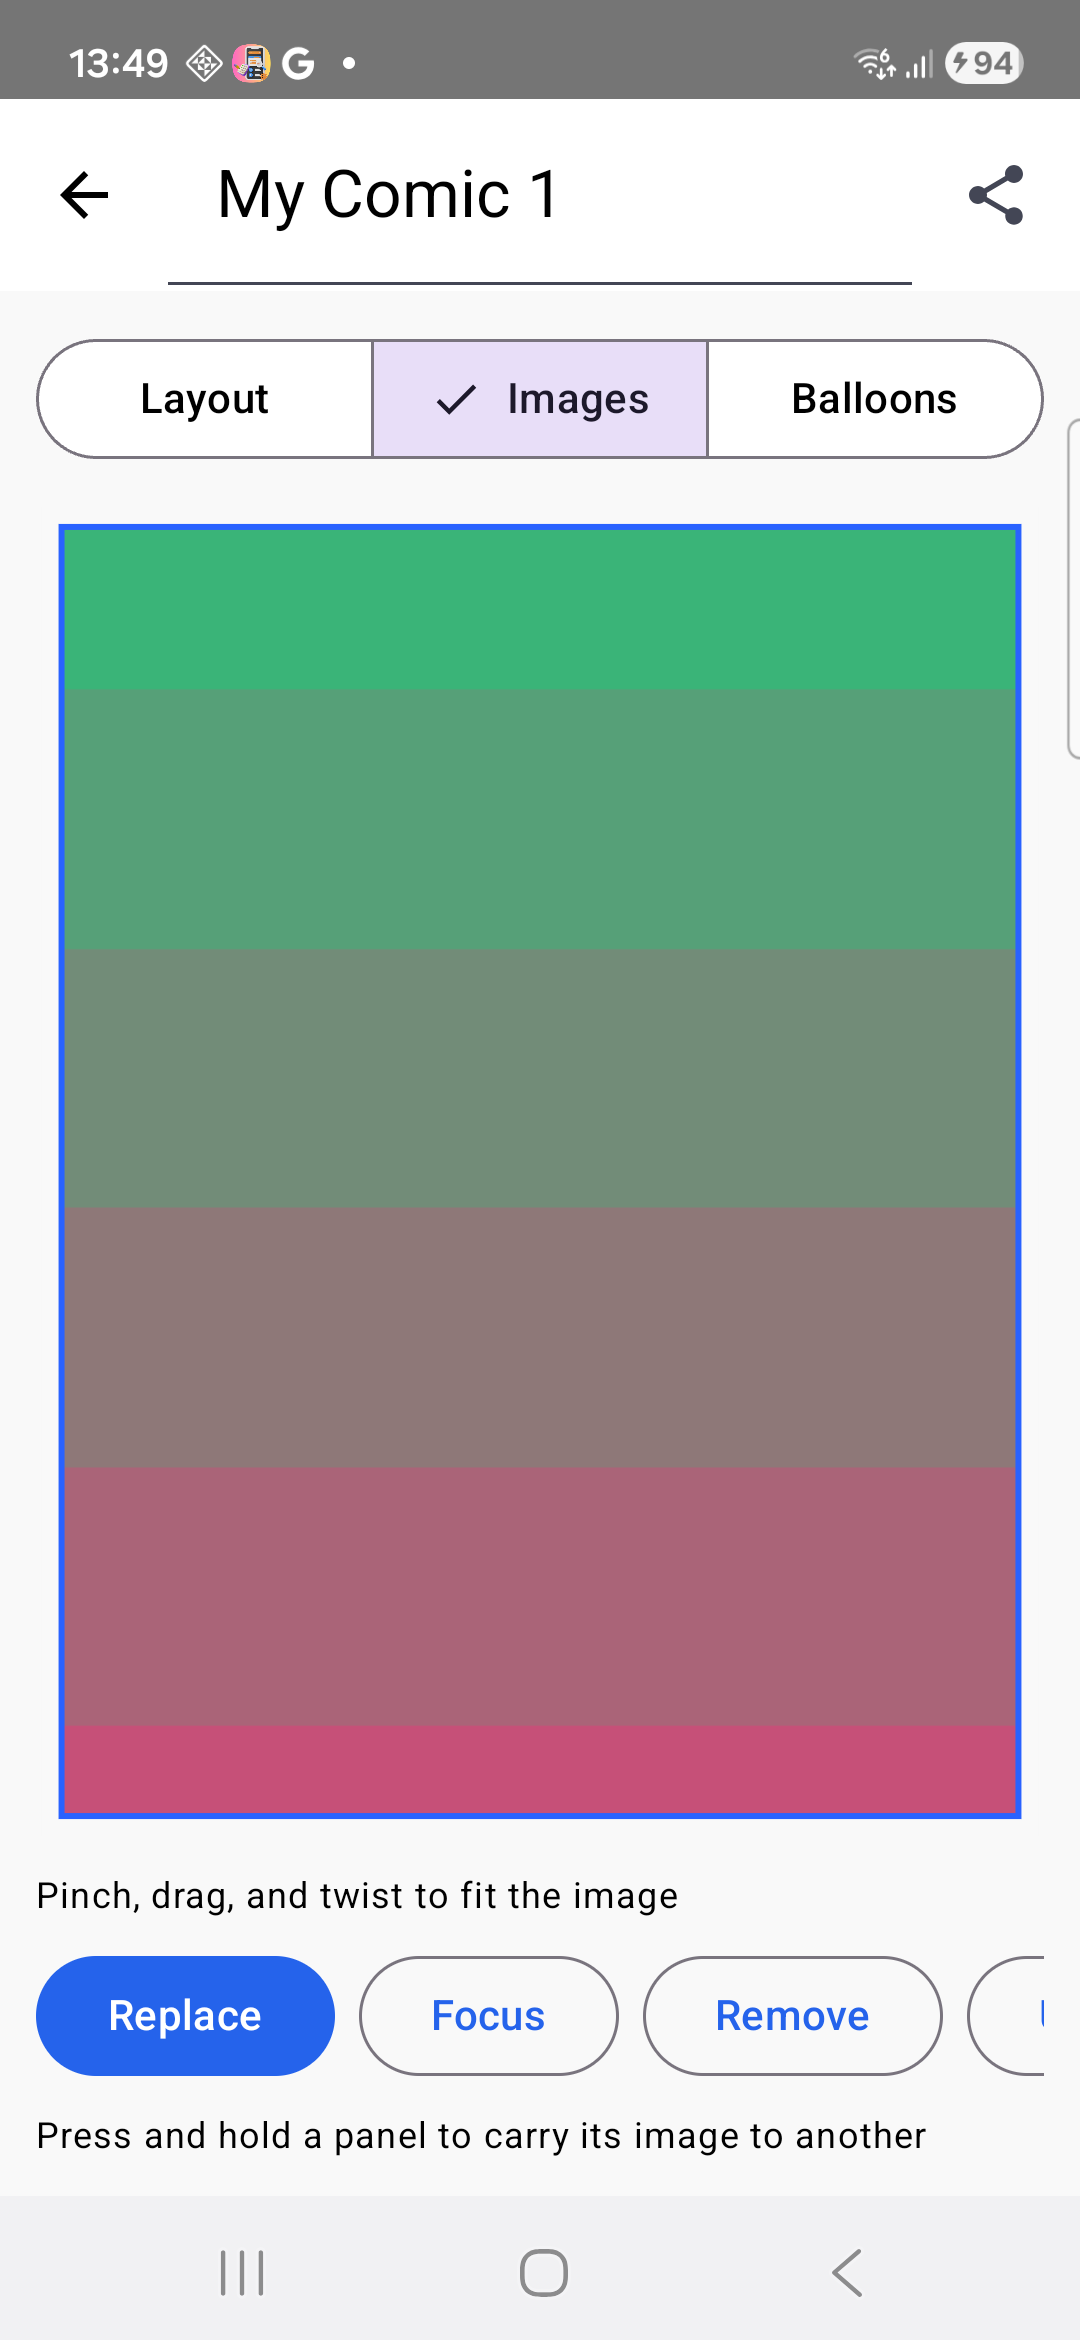
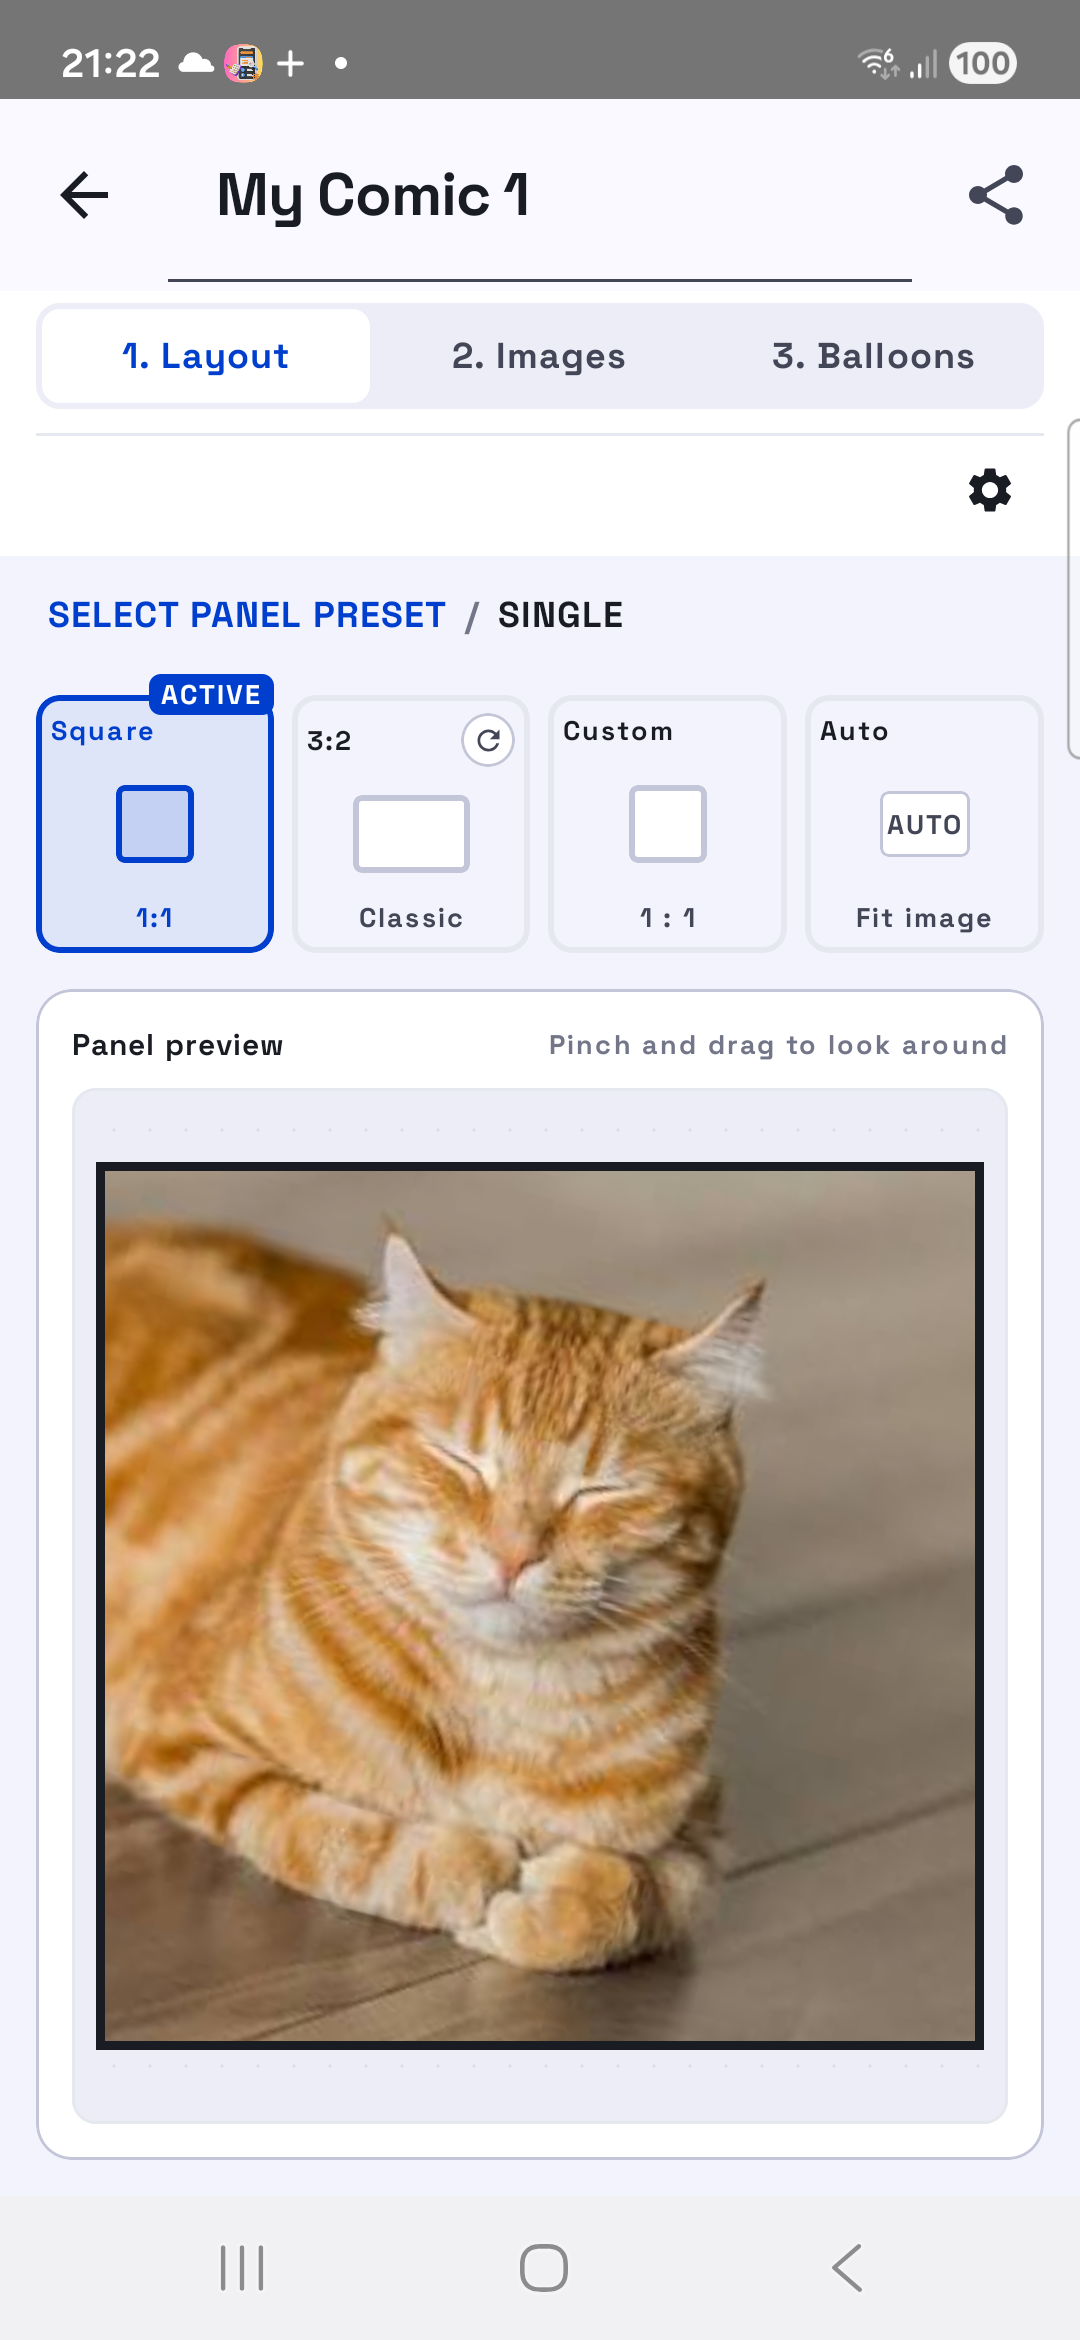
add preview panel image

diff --git a/app/src/main/java/com/ballooner/ui/comiceditor/SinglePanelShapeScreen.kt b/app/src/main/java/com/ballooner/ui/comiceditor/SinglePanelShapeScreen.kt
@@ -42,6 +42,21 @@ import com.ballooner.domain.comic.SQUARE_RATIO
 import com.ballooner.domain.comic.TALL_RATIO
 import com.ballooner.domain.comic.WIDE_RATIO
 import androidx.compose.foundation.Canvas
+import androidx.compose.foundation.gestures.detectTransformGestures
+import androidx.compose.runtime.remember
+import androidx.compose.runtime.rememberUpdatedState
+import androidx.compose.ui.draw.clipToBounds
+import androidx.compose.ui.graphics.ImageBitmap
+import androidx.compose.ui.graphics.drawscope.withTransform
+import androidx.compose.ui.input.pointer.pointerInput
+import androidx.compose.ui.unit.IntOffset
+import androidx.compose.ui.unit.IntSize
+import com.ballooner.domain.comic.PageRect
+import com.ballooner.domain.comic.PanelImage
+import com.ballooner.domain.comic.transformed
+import com.ballooner.ui.comic.PageViewport
+import com.ballooner.ui.comic.PanelImageSource
+import com.ballooner.ui.comic.imageDrawSpec
 import kotlin.math.abs
 import kotlin.math.roundToInt
 
@@ -59,6 +74,8 @@ private enum class ShapeTile { SQUARE, RATIO, CUSTOM, AUTO }
 fun SinglePanelShapeScreen(
     sizing: PageSizing,
     panelRatio: Float,
+    image: PanelImage?,
+    images: PanelImageSource,
     onChange: (PageSizing) -> Unit,
     onBack: () -> Unit,
     modifier: Modifier = Modifier,
@@ -172,8 +189,11 @@ fun SinglePanelShapeScreen(
 
         PanelPreview(
             // The panel as it will really be: a ratio the page cannot reach is held back, and
-            // the preview has to say so rather than promise the number on the slider.
-            ratio = panelRatio.takeIf { tile != ShapeTile.AUTO },
+            // the preview has to say so rather than promise the number on the slider. An auto
+            // panel has no shape to show until an image gives it one.
+            ratio = panelRatio.takeIf { tile != ShapeTile.AUTO || image != null },
+            image = image,
+            images = images,
             modifier = Modifier.weight(1f),
         )
     }
@@ -448,8 +468,14 @@ private fun FilledTrack(fraction: Float) {
 
 /** The shape itself, on a drafting ground, so the numbers above are never the only feedback. */
 @Composable
-private fun PanelPreview(ratio: Float?, modifier: Modifier = Modifier) {
+private fun PanelPreview(
+    ratio: Float?,
+    image: PanelImage?,
+    images: PanelImageSource,
+    modifier: Modifier = Modifier,
+) {
     val scheme = MaterialTheme.colorScheme
+    val bitmap = image?.let { images.bitmapFor(it.sourceUri) }
     Column(
         modifier = modifier
             .fillMaxWidth()
@@ -462,11 +488,24 @@ private fun PanelPreview(ratio: Float?, modifier: Modifier = Modifier) {
             .padding(12.dp),
         verticalArrangement = Arrangement.spacedBy(8.dp),
     ) {
-        Text(
-            text = "Panel preview",
-            style = MaterialTheme.typography.labelMedium,
-            color = scheme.onSurface,
-        )
+        Row(
+            modifier = Modifier.fillMaxWidth(),
+            horizontalArrangement = Arrangement.SpaceBetween,
+            verticalAlignment = Alignment.CenterVertically,
+        ) {
+            Text(
+                text = "Panel preview",
+                style = MaterialTheme.typography.labelMedium,
+                color = scheme.onSurface,
+            )
+            if (bitmap != null) {
+                Text(
+                    text = "Pinch and drag to look around",
+                    style = MaterialTheme.typography.labelSmall,
+                    color = scheme.outline,
+                )
+            }
+        }
         Box(
             modifier = Modifier
                 .fillMaxWidth()
@@ -493,8 +532,65 @@ private fun PanelPreview(ratio: Float?, modifier: Modifier = Modifier) {
                         .aspectRatio(ratio)
                         .background(scheme.surfaceContainerLowest)
                         .border(BorderStroke(3.dp, scheme.onSurface)),
-                )
+                ) {
+                    if (bitmap != null) {
+                        PreviewImage(ratio = ratio, placement = image, bitmap = bitmap)
+                    }
+                }
             }
+        }
+    }
+}
+
+/**
+ * The image inside the preview frame, with pinch, drag, and twist.
+ *
+ * Nothing here is written back to the comic: this is a way of looking at how an image sits in a
+ * shape while choosing that shape, and the Placement step remains the only place a panel image is
+ * actually positioned.
+ */
+@Composable
+private fun PreviewImage(ratio: Float, placement: PanelImage, bitmap: ImageBitmap) {
+    val imageAspect = bitmap.width.toFloat() / bitmap.height
+    // Starts from where the Placement step left it, then drifts freely and is thrown away.
+    var looking by remember(placement.sourceUri) { mutableStateOf(placement) }
+    val latest = rememberUpdatedState(ratio to imageAspect)
+
+    Canvas(
+        modifier = Modifier
+            .fillMaxSize()
+            .clipToBounds()
+            // Keyed on nothing: keying on what the gesture edits would tear the handler down on
+            // the first move and the drag would barely travel.
+            .pointerInput(Unit) {
+                detectTransformGestures { _, pan, zoom, rotation ->
+                    val (currentRatio, aspect) = latest.value
+                    val frame = PageRect(0f, 0f, currentRatio, 1f)
+                    val scale = size.height.toFloat()
+                    if (scale <= 0f) return@detectTransformGestures
+                    looking = looking.transformed(
+                        panel = frame,
+                        imageAspect = aspect,
+                        panX = pan.x / scale,
+                        panY = pan.y / scale,
+                        zoomBy = zoom,
+                        rotateBy = rotation,
+                    )
+                }
+            },
+    ) {
+        val spec = imageDrawSpec(
+            panel = PageRect(0f, 0f, ratio, 1f),
+            image = looking,
+            imageAspect = imageAspect,
+            viewport = PageViewport(0f, 0f, size.height),
+        )
+        withTransform({ rotate(spec.angleDegrees, spec.pivot) }) {
+            drawImage(
+                image = bitmap,
+                dstOffset = IntOffset(spec.topLeft.x.roundToInt(), spec.topLeft.y.roundToInt()),
+                dstSize = IntSize(spec.size.width.roundToInt(), spec.size.height.roundToInt()),
+            )
         }
     }
 }

diff --git a/app/src/main/java/com/ballooner/ui/comiceditor/ComicEditorScreen.kt b/app/src/main/java/com/ballooner/ui/comiceditor/ComicEditorScreen.kt
@@ -101,6 +101,8 @@ fun ComicEditorScreen(
                         sizing = state.comic.sizing,
                         panelRatio = panel?.takeIf { it.height > 0f }
                             ?.let { it.width / it.height } ?: 1f,
+                        image = state.comic.panels.firstOrNull()?.image,
+                        images = images,
                         onChange = actions::setSizing,
                         onBack = actions::closeLayoutKind,
                     )

diff --git a/.github/instructions/ui-vocabulary.instructions.md b/.github/instructions/ui-vocabulary.instructions.md
@@ -106,7 +106,9 @@ the parts owned by later steps are shown dimmed and are not interactive.
 - **Custom dimensions**: The Custom tile's two sliders, **Width (W)** and **Height (H)**, in whole
   units from 1 to 24. The ratio between them is the shape.
 - **Panel preview**: The shape drawn on a drafting ground, showing the panel as it will really be
-  rather than the number that was asked for.
+  rather than the number that was asked for. Once the panel has an image it is drawn inside the
+  frame and can be pinched, dragged, and twisted. That is **looking, not placing**: nothing there
+  is written to the comic, and the Placement step remains the only place an image is positioned.
 - **Reference panel**: The panel that gives the Page its height, which is the first panel of the
   Grid. For a Single comic that is the only panel.
 - **Panel shape**: The proportions the Reference panel is held at. Offered as **Square**, **2:3**,
